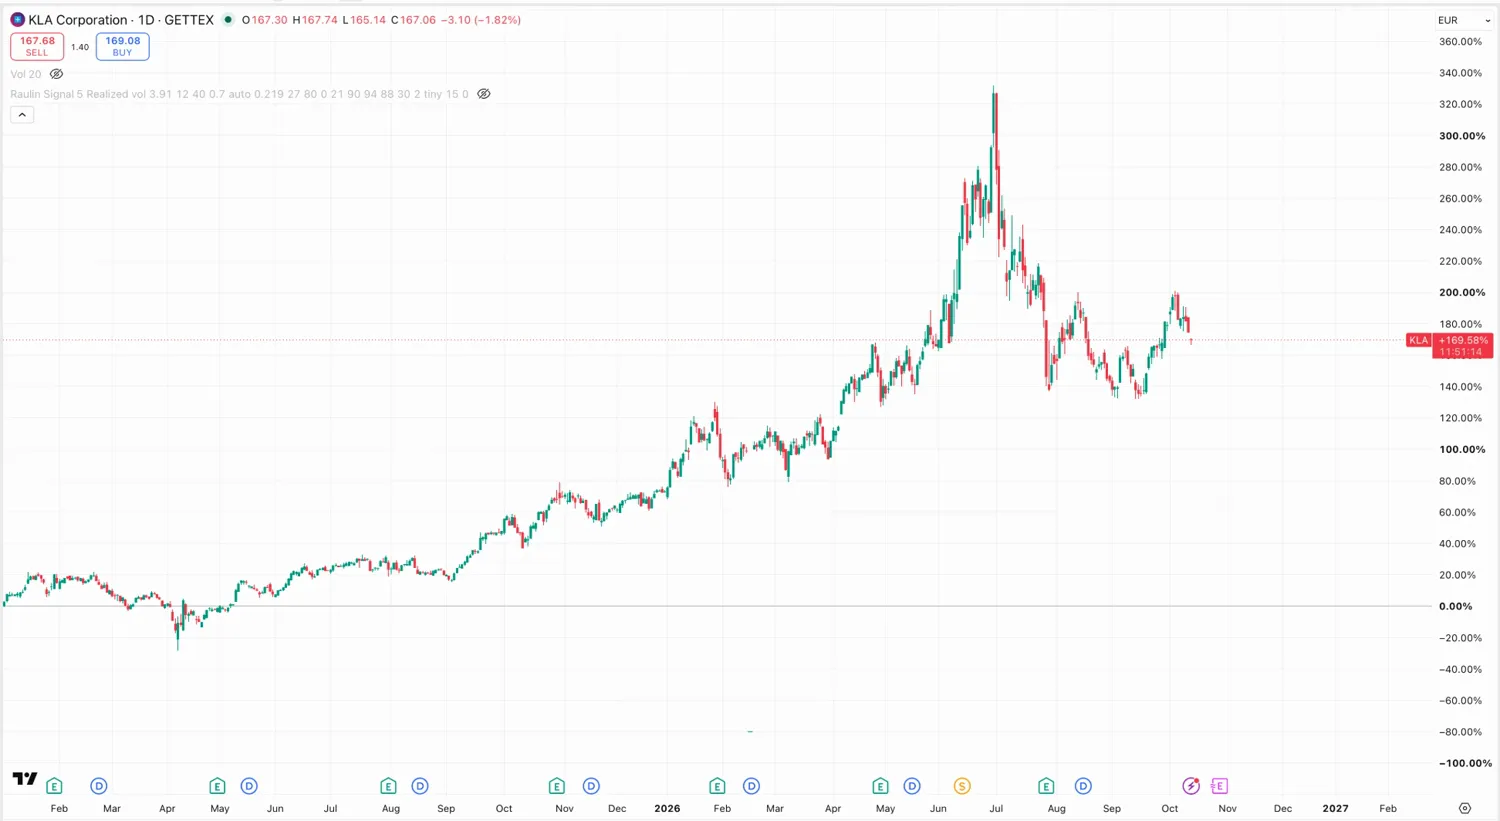
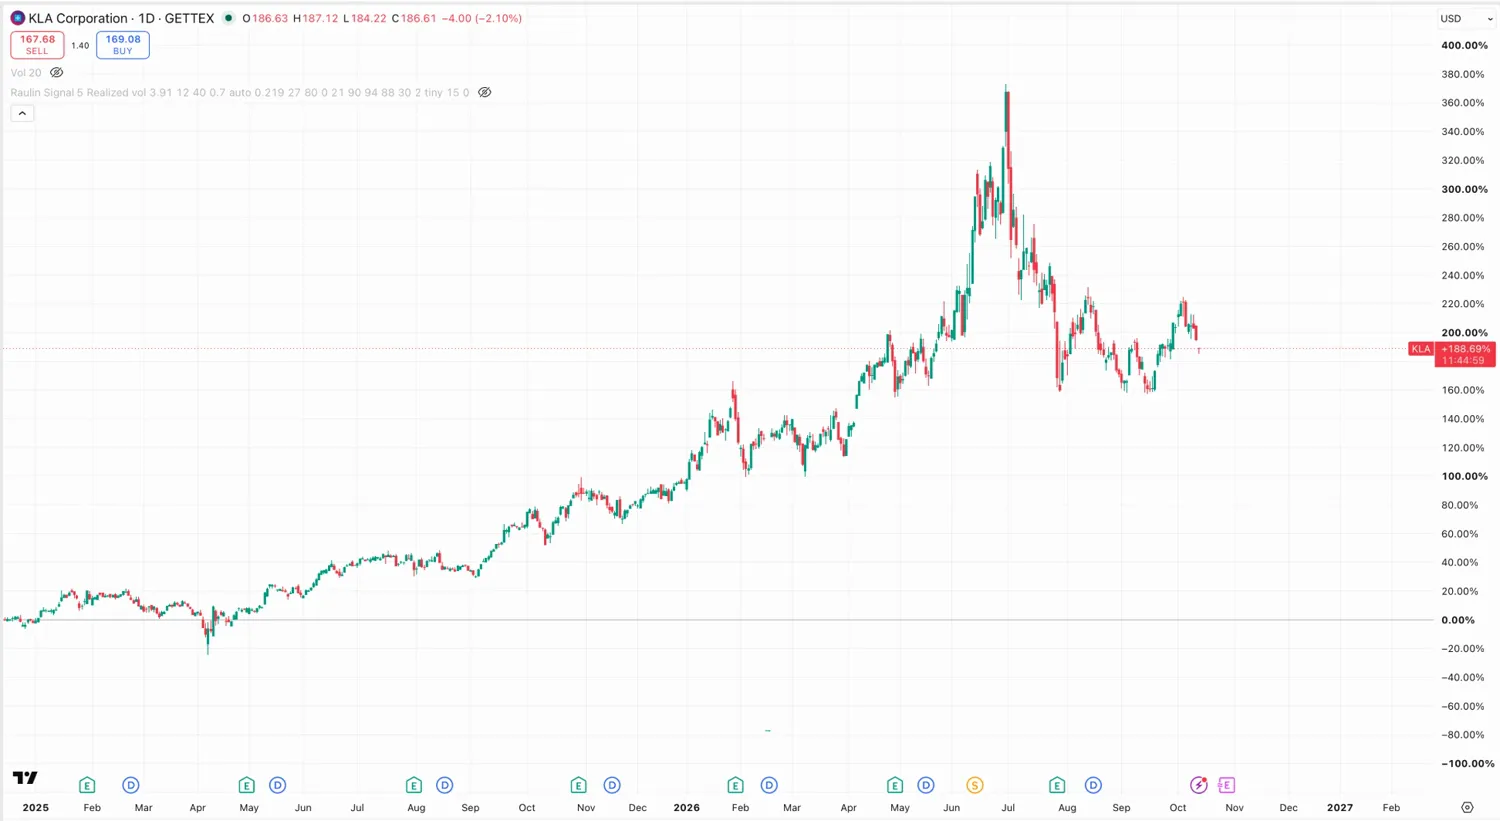
KLA-Chart in Dollar, damit die vierte Gegenprobe aufgeht
Der Chart lief in Euro ueber die Gettex und war damit als einziger nicht
mit den anderen vergleichbar; der absolute Kurs passte nicht zu den 302 $
je Aktie aus der Meldung. In Dollar loest sich das auf: +188,69 % seit
Anfang 2025 bei 186,61 $ heute ergibt einen Startkurs von 64,64 $, und das
Juli-Hoch bei rund 365 % der Achse landet bei 301 $. Die 13F sagt 302.

Die Abweichung war also allein die Waehrung. Damit bestaetigen jetzt alle
vier Kursverlaeufe die Zahlen aus der Meldung, und der Hinweis auf die
Wechselkursbewegung faellt weg.

Der Kasten unter den drei Ausruestern nennt die Gegenprobe jetzt
ausdruecklich -- 723 $, 302 $ und 433 $ zurueckgerechnet gegen das, was die
Charts fuer Juni und Juli 2026 zeigen.

diff --git a/chips.html b/chips.html
@@ -309,11 +309,9 @@ footer a:hover { color: var(--gruen); }
         <em>AMAT, Stand 13.10.2026. Chart: TradingView.</em></figcaption>
     </figure>
     <figure>
-      <img src="chips_kla.webp" alt="KLA Corporation, Tageskerzen seit Februar 2025, Darstellung in Prozent">
-      <figcaption><strong>KLA</strong> seit Februar 2025: rund <b>+170 %</b>.
-        <em>KLA, gehandelt in Euro an der Gettex, Stand 13.10.2026. Chart: TradingView. Weil hier
-        in Euro gerechnet wird und bei den anderen beiden in Dollar, steckt in dieser Zahl auch
-        die Wechselkursbewegung.</em></figcaption>
+      <img src="chips_kla.webp" alt="KLA Corporation, Tageskerzen seit Anfang 2025, Darstellung in Prozent">
+      <figcaption><strong>KLA</strong> seit Anfang 2025: rund <b>+189 %</b>.
+        <em>KLA, in Dollar gerechnet, Stand 13.10.2026. Chart: TradingView.</em></figcaption>
     </figure>
     <figure>
       <img src="chips_lrcx.webp" alt="Lam Research, Tageskerzen seit Anfang 2025, Darstellung in Prozent">
@@ -323,9 +321,15 @@ footer a:hover { color: var(--gruen); }
     <div class="hinweis">
       <strong>Was die drei Charts zusammen zeigen:</strong> Die Linien laufen in dieselbe
       Richtung, aber nicht gleich weit — Lam Research hat sich seit Anfang 2025 mehr als
-      vervierfacht, KLA nicht einmal verdreifacht. Alle drei haben im Juli 2026 ihr Hoch gemacht
+      vervierfacht, KLA nicht ganz verdreifacht. Alle drei haben im Juli 2026 ihr Hoch gemacht
       und seitdem einen guten Teil abgegeben. <strong>Ein Engpass ist keine Garantie für einen
       ruhigen Kursverlauf</strong>, und die drei sind trotz ähnlicher Kunden nicht austauschbar.
+      <br><br>
+      <strong>Die Charts bestätigen die Meldung.</strong> Rechnet man aus Stückzahl und Wert den
+      Kurs je Aktie zum 30.06.2026 zurück, landet man bei Applied Materials auf rund 723 $, bei
+      KLA auf 302 $ und bei Lam Research auf 433 $ — und genau dort lagen die Kurse im Juni und
+      Juli 2026 auch. Die Zahlen in der Tabelle oben sind also nicht nur abgeschrieben, sie
+      halten der Gegenprobe stand.
     </div>
     <p>Zusammen sind das <strong>rund 535 Millionen Dollar</strong> oder 5,5 Prozent des
       gemeldeten Bestands zum 30.06.2026 — verteilt auf drei Firmen, die sich gegenseitig kaum Konkurrenz
